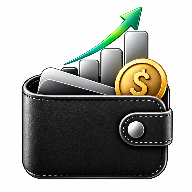
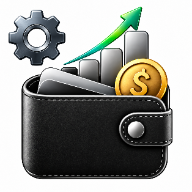
Release V8.7: localized control identity and resilient service diagnostics

diff --git a/admin-command.js b/admin-command.js
@@ -22,7 +22,7 @@
       if (!row || !idPattern.test(row.id || '')) return;
       const key = kind + ':' + row.id;
       if (seen.has(key)) return;
-      seen.add(key); queue.push({kind, id: row.id, label: String(label || row.id), at: row.created_at || row.updated_at || row.ends_at || null, priority, userId: row.requester_user_id || row.owner_user_id || row.user_id || null, source: row.source || null});
+      seen.add(key); queue.push({kind, id: row.id, label: String(label || row.id), at: (kind === 'account' ? row.ends_at : row.created_at || row.updated_at) || row.ends_at || null, priority, userId: row.requester_user_id || row.owner_user_id || row.user_id || null, source: row.source || null});
     }
     list(overview?.pending_requests).forEach(row => add('request', row, row.request_no, 1));
     if (table.tab === 'requests' && table.ready !== false) list(table.rows).filter(row => row.status === 'pending_review').forEach(row => add('request', row, row.request_no, 1));
@@ -48,17 +48,21 @@
     if (expires && (!Number.isFinite(expires.getTime()) || expires.getTime() <= Date.now())) throw Error('invalid_request');
     return {user_id: data.user_id, enabled: data.enabled === true, daily_limit: integer(data.daily_limit, 1, 100), expires_at: expires ? expires.toISOString() : null};
   }
+  const unavailableUntil = new Map();
   async function requestAI(bridge, action, data = {}, fetcher = root.fetch?.bind(root)) {
     if (!['admin_status', 'admin_config', 'admin_grant'].includes(action)) throw Error('invalid_request');
     const pin = await bridge.session();
     if (!bridge.current(pin)) throw Error('session_revoked');
-    const connection = bridge.connection(), controller = new AbortController(), timer = setTimeout(() => controller.abort(), 20000);
+    const connection = bridge.connection(), endpoint = connection.url.replace(/\/$/, '') + '/functions/v1/masarifi-ai';
+    if ((unavailableUntil.get(endpoint) || 0) > Date.now()) throw Error('setup_required');
+    const controller = new AbortController(), timer = setTimeout(() => controller.abort(), 20000);
     try {
       const response = await fetcher(connection.url.replace(/\/$/, '') + '/functions/v1/masarifi-ai', {method: 'POST', signal: controller.signal, headers: {'Content-Type': 'application/json', apikey: connection.key, Authorization: 'Bearer ' + pin.token}, body: JSON.stringify({action, ...(action === 'admin_status' ? {} : {data})})});
       if (!bridge.current(pin)) throw Error('session_revoked');
       let result; try { result = await response.json(); } catch { result = null; }
       if (!bridge.current(pin)) throw Error('session_revoked');
-      if (response.status === 404) throw Error('setup_required');
+      if (response.status === 404 || response.status === 410) { unavailableUntil.set(endpoint, Date.now() + 300000); throw Error('setup_required'); }
+      if (response.ok) unavailableUntil.delete(endpoint);
       if (!response.ok || !result?.ok) {
         const code = response.status === 401 ? 'auth_required' : result?.code || (response.status === 403 ? 'admin_forbidden' : 'backend_unavailable');
         if (['admin_forbidden', 'auth_required', 'session_revoked'].includes(code)) bridge.revoke(pin, code);
@@ -72,6 +76,7 @@
   const text = {
     origin_forbidden:['هذا العنوان غير مسموح لخدمة الذكاء الاصطناعي؛ راجع إعدادات الخادم.','This site origin is not allowed by the AI service. Check the server configuration.','Bu site adresine yapay zekâ hizmetinde izin verilmemiş. Sunucu ayarlarını kontrol edin.','Cette origine n’est pas autorisée par le service IA. Vérifiez le serveur.'], unsaved:['توجد تغييرات غير محفوظة. هل تريد تجاهلها؟','There are unsaved changes. Discard them?','Kaydedilmemiş değişiklikler var. Silinsin mi?','Des modifications ne sont pas enregistrées. Les abandonner ?'], operations:['مركز العمليات','Operations center','İşlem merkezi','Centre des opérations'], overview:['المتابعة','Follow-up','Takip','Suivi'], export:['تصدير الجدول','Export table','Tabloyu dışa aktar','Exporter le tableau'], ai:['الذكاء الاصطناعي','AI administration','Yapay zekâ yönetimi','Administration IA'], close:['إغلاق','Close','Kapat','Fermer'], refresh:['تحديث البيانات','Refresh data','Verileri yenile','Actualiser'], search:['بحث سريع عن حساب','Quick account search','Hızlı hesap arama','Recherche rapide de compte'], searchHint:['الاسم أو كود البرنامج أو معرّف الحساب','Name, program code or account ID','Ad, program kodu veya hesap kimliği','Nom, code ou identifiant du compte'], searchButton:['فتح نتائج البحث','Open search results','Sonuçları aç','Ouvrir les résultats'], pending:['طلبات التفعيل','Activation requests','Etkinleştirme talepleri','Demandes d’activation'], threads:['محادثات تحتاج متابعة','Threads awaiting follow-up','Takip bekleyen sohbetler','Conversations à suivre'], expiring:['تنتهي خلال 7 أيام','Expiring in 7 days','7 gün içinde sona eriyor','Expirent dans 7 jours'], revoked:['أجهزة مفصولة','Revoked devices','Bağlantısı kesilen cihazlar','Appareils révoqués'], server:['إجمالي الخادم','Server total','Sunucu toplamı','Total serveur'], loaded:['العناصر المحمّلة','Loaded items','Yüklenen öğeler','Éléments chargés'], page:['هذه الصفحة فقط','This page only','Yalnızca bu sayfa','Cette page uniquement'], unknown:['لم يُحمّل المصدر','Source not loaded','Kaynak yüklenmedi','Source non chargée'], queued:['قائمة المتابعة','Follow-up queue','Takip listesi','File de suivi'], empty:['لا توجد عناصر متابعة في المصادر المحمّلة.','No follow-up items in loaded sources.','Yüklenen kaynaklarda takip öğesi yok.','Aucun élément à suivre dans les sources chargées.'], scope:['تُعرض القراءات المتاحة فقط؛ هذه القائمة ليست حصرًا لكل الحسابات.','Only available readings are shown; this is not an inventory of all accounts.','Yalnızca mevcut ölçümler gösterilir; tüm hesapların envanteri değildir.','Seules les données disponibles sont affichées, pas tous les comptes.'], request:['طلب تفعيل','Activation request','Etkinleştirme talebi','Demande d’activation'], thread:['محادثة خاصة','Private thread','Özel sohbet','Conversation privée'], notice:['إشعار','Notification','Bildirim','Notification'], account:['اشتراك قريب من النهاية','Subscription nearing expiry','Süresi dolmak üzere abonelik','Abonnement bientôt expiré'], online:['اتصال متاح','Network available','Ağ kullanılabilir','Réseau disponible'], offline:['دون اتصال','Offline','Çevrimdışı','Hors ligne'], requests:['طلبات قيد التنفيذ','Requests in flight','Devam eden istekler','Requêtes en cours'], last:['آخر استجابة ناجحة','Last successful response','Son başarılı yanıt','Dernière réponse réussie'], latency:['زمن آخر طلب','Last request latency','Son istek süresi','Latence de la dernière requête'], support:['دعم بموافقة محددة','Support with explicit consent','Açık izinli destek','Assistance avec consentement'], notifications:['فتح الإشعارات','Open notifications','Bildirimleri aç','Ouvrir les notifications'], choose:['تحديد الصف','Select row','Satırı seç','Sélectionner la ligne'], all:['تحديد الصفحة','Select page','Sayfayı seç','Sélectionner la page'], selected:['صفوف مختارة','Selected rows','Seçili satırlar','Lignes sélectionnées'], download:['تنزيل CSV','Download CSV','CSV indir','Télécharger CSV'], exportHint:['يشمل التصدير الصفوف المحمّلة والأعمدة المعروضة فقط. تُحمى الخلايا النصية من صيغ الجداول.','Exports include loaded rows and visible columns only. Text cells are protected from spreadsheet formulas.','Yalnızca yüklenen satırlar ve görünen sütunlar aktarılır. Metin hücreleri formüllere karşı korunur.','L’export comprend uniquement les lignes chargées et colonnes affichées. Les cellules sont protégées contre les formules.'], noTable:['افتح جدول الطلبات أو الأجهزة أو الاشتراكات أولًا، ثم حدد الصفوف المطلوبة.','Open requests, devices or subscriptions first, then select rows.','Önce talepler, cihazlar veya abonelikler tablosunu açın ve satır seçin.','Ouvrez un tableau puis sélectionnez les lignes.'], aiHint:['الحدود والوصول تُفرض في الخادم. لا يُحفظ مفتاح المزوّد في المتصفح.','Limits and access are enforced by the server. Provider keys are never stored in the browser.','Sınırlar ve erişim sunucuda uygulanır. Sağlayıcı anahtarı tarayıcıda saklanmaz.','Les limites et accès sont appliqués au serveur. Les clés ne sont jamais stockées dans le navigateur.'], loading:['جار التحميل…','Loading…','Yükleniyor…','Chargement…'], setup_required:['يلزم نشر وظيفة الذكاء الاصطناعي وتهيئة قاعدة البيانات أولًا.','Deploy the AI function and database setup first.','Önce yapay zekâ işlevini ve veritabanı kurulumunu dağıtın.','Déployez d’abord la fonction IA et la base de données.'], service_not_configured:['خدمة الذكاء الاصطناعي غير مهيأة على الخادم.','AI service is not configured on the server.','Yapay zekâ hizmeti sunucuda yapılandırılmadı.','Le service IA n’est pas configuré au serveur.'], backend_unavailable:['تعذر الوصول إلى الخدمة. أعد المحاولة.','Service unavailable. Try again.','Hizmete erişilemiyor. Yeniden deneyin.','Service indisponible. Réessayez.'], network_timeout:['انتهت مهلة الاتصال؛ تحقق من الحالة قبل إعادة الحفظ.','Connection timed out; check status before saving again.','Bağlantı zaman aşımı; yeniden kaydetmeden durumu kontrol edin.','Délai dépassé : vérifiez l’état avant de réenregistrer.'], invalid_request:['تحقق من المعرّف والتاريخ والحدود الصحيحة.','Check the account ID, date and valid integer limits.','Kimliği, tarihi ve geçerli tam sayı sınırlarını kontrol edin.','Vérifiez l’identifiant, la date et les limites entières.'], session_revoked:['انتهت صلاحية جلسة الإدارة.','Admin session is no longer valid.','Yönetici oturumu artık geçerli değil.','La session administrateur n’est plus valide.'], blocked:['أكمل الإرسال أو أغلق نافذة التعديل أولًا.','Finish sending or close the editor first.','Önce gönderimi bitirin veya düzenleyiciyi kapatın.','Terminez l’envoi ou fermez l’éditeur.'], enabled:['تفعيل خدمة الذكاء الاصطناعي','Enable AI service','Yapay zekâ hizmetini etkinleştir','Activer le service IA'], projectLimit:['حد الطلبات اليومي للمشروع','Project daily request limit','Proje günlük istek sınırı','Limite quotidienne du projet'], userLimit:['الحد اليومي الافتراضي للمستخدم','Default daily user limit','Varsayılan günlük kullanıcı sınırı','Limite utilisateur par défaut'], tokens:['حد رموز الإجابة','Maximum output tokens','Yanıt belirteci sınırı','Limite de jetons de réponse'], save:['مراجعة وحفظ','Review and save','İncele ve kaydet','Vérifier et enregistrer'], review:['مراجعة التغيير','Review change','Değişikliği incele','Vérifier le changement'], confirm:['أؤكد اعتماد هذا التغيير','Confirm this change','Bu değişikliği onaylıyorum','Je confirme cette modification'], saved:['حُفظت الإعدادات على الخادم','Saved on the server','Sunucuya kaydedildi','Enregistré au serveur'], grant:['وصول مستخدم للذكاء الاصطناعي','User AI entitlement','Kullanıcı yapay zekâ erişimi','Accès IA utilisateur'], userId:['معرّف المستخدم','User ID','Kullanıcı kimliği','Identifiant utilisateur'], allow:['السماح بالاستخدام','Allow usage','Kullanıma izin ver','Autoriser l’utilisation'], expires:['تاريخ انتهاء اختياري','Optional expiry date','İsteğe bağlı bitiş tarihi','Expiration facultative'], grantLimit:['حد المستخدم اليومي','User daily limit','Kullanıcı günlük sınırı','Limite quotidienne utilisateur'], entitlements:['أحدث صلاحيات المستخدمين (حتى 100)','Latest user entitlements (up to 100)','Son kullanıcı izinleri (en fazla 100)','Derniers accès utilisateurs (100 maximum)'], model:['النموذج المحدد في الخادم','Server-configured model','Sunucuda ayarlanan model','Modèle défini au serveur'], today:['طلبات اليوم','Requests today','Bugünkü istekler','Requêtes du jour'], remaining:['الطلبات المتبقية للمشروع','Remaining project requests','Kalan proje istekleri','Requêtes restantes du projet'], tokenUsage:['رموز الإدخال والإجابة اليوم','Input and output tokens today','Bugünkü girdi ve çıktı belirteçleri','Jetons d’entrée et sortie du jour'], provider:['إعداد المزوّد','Provider setup','Sağlayıcı kurulumu','Configuration du fournisseur'], yes:['مهيأ','Configured','Yapılandırıldı','Configuré'], no:['غير مهيأ','Not configured','Yapılandırılmadı','Non configuré']
   };
+  text.setup_required = ['خدمة المساعد السحابي غير منشورة أو غير متاحة. تبقى بقية أدوات التحكم متاحة. يمكن إعادة التحقق بعد خمس دقائق.','The cloud assistant service is not deployed or unavailable. Other admin tools remain available. Check again in five minutes.','Bulut asistanı hizmeti dağıtılmamış veya kullanılamıyor. Diğer yönetim araçları kullanılabilir. Beş dakika sonra yeniden kontrol edin.','Le service d’assistant cloud n’est pas déployé ou est indisponible. Les autres outils restent disponibles. Vérifiez à nouveau dans cinq minutes.'];
   const locale = () => root.MasarifiAdminLocale?.locale || 'ar';
   const t = key => text[key]?.[{ar:0,en:1,tr:2,fr:3}[locale()] ?? 0] || key;
   const errorText = error => t(Object.prototype.hasOwnProperty.call(text,error?.message)?error.message:'backend_unavailable');

diff --git a/app-locale.js b/app-locale.js
@@ -3,9 +3,9 @@
 'use strict';
 if(root.MasarifiLocale)return;
 const application='admin',supported=Object.freeze(['ar','tr','en','fr']);
-const names={user:{ar:'مصاريفي',tr:'Masarifi — Giderlerim',en:'Masarifi — My Expenses',fr:'Masarifi — Mes dépenses'},admin:{ar:'مصاريفي — الإدارة',tr:'Masarifi — Yönetim',en:'Masarifi — Administration',fr:'Masarifi — Administration'}};
-const shortNames={user:{ar:'مصاريفي',tr:'Giderlerim',en:'My Expenses',fr:'Mes dépenses'},admin:{ar:'إدارة مصاريفي',tr:'Masarifi Yönetim',en:'Masarifi Admin',fr:'Masarifi Admin'}};
-const shareTexts={user:{ar:'مصاريفي — نظّم مصاريفك وصناديقك وتقاريرك من جهازك.',tr:'Masarifi — giderlerinizi, kasalarınızı ve raporlarınızı cihazınızdan yönetin.',en:'Masarifi — manage your expenses, cashboxes and reports from your device.',fr:'Masarifi — gérez vos dépenses, vos caisses et vos rapports depuis votre appareil.'},admin:{ar:'إدارة مصاريفي — إدارة الحسابات والاشتراكات وخدمة المستخدمين.',tr:'Masarifi Yönetim — hesapları, abonelikleri ve kullanıcı desteğini yönetin.',en:'Masarifi Administration — manage accounts, subscriptions and user support.',fr:'Administration de Masarifi — gérez les comptes, les abonnements et l’assistance.'}};
+const names={user:{ar:'مصاريفي',tr:'Masarifi — Giderlerim',en:'Masarifi — My Expenses',fr:'Masarifi — Mes dépenses'},admin:{ar:'تحكم مصاريفي',tr:'Masarifi — Kontrol',en:'Masarifi — Control',fr:'Masarifi — Contrôle'}};
+const shortNames={user:{ar:'مصاريفي',tr:'Giderlerim',en:'My Expenses',fr:'Mes dépenses'},admin:{ar:'تحكم مصاريفي',tr:'Masarifi Kontrol',en:'Masarifi Control',fr:'Contrôle Masarifi'}};
+const shareTexts={user:{ar:'مصاريفي — نظّم مصاريفك وصناديقك وتقاريرك من جهازك.',tr:'Masarifi — giderlerinizi, kasalarınızı ve raporlarınızı cihazınızdan yönetin.',en:'Masarifi — manage your expenses, cashboxes and reports from your device.',fr:'Masarifi — gérez vos dépenses, vos caisses et vos rapports depuis votre appareil.'},admin:{ar:'تحكم مصاريفي — إدارة الحسابات والاشتراكات وخدمة المستخدمين.',tr:'Masarifi Kontrol — hesapları, abonelikleri ve kullanıcı desteğini yönetin.',en:'Masarifi Control — manage accounts, subscriptions and user support.',fr:'Administration de Masarifi — gérez les comptes, les abonnements et l’assistance.'}};
 const preferenceKey=application==='admin'?'masarifi.admin.locale.v1':'masarifi.user.locale.v85';
 const manifestDirectory=new URL('./',new URL(root.document.querySelector('link[rel="manifest"]')?.getAttribute('href')||'./manifest.webmanifest',root.location.href));
 function normalize(value){const lang=String(value||'').trim().toLowerCase().split(/[-_]/)[0];return supported.includes(lang)?lang:null;}
@@ -13,24 +13,24 @@ function phoneLanguage(languages=root.navigator?.languages,language=root.navigat
 function readPreference(){try{return normalize(root.localStorage.getItem(preferenceKey));}catch{return null;}}
 function writePreference(value){try{root.localStorage.setItem(preferenceKey,value);}catch{}}
 function linkLanguage(){try{return normalize(new URL(root.location.href).searchParams.get('lang'));}catch{return null;}}
-const initial=readPreference()||linkLanguage()||phoneLanguage();
+const initial=readPreference()||phoneLanguage();
 function meta(name,content){let node=root.document.querySelector(`meta[name="${name}"]`);if(!node){node=root.document.createElement('meta');node.setAttribute('name',name);root.document.head.append(node);}node.setAttribute('content',content);}
 function updateMetadata(value){
  const lang=normalize(value)||phoneLanguage(),document=root.document;
  document.documentElement.lang=lang;document.documentElement.dir=lang==='ar'?'rtl':'ltr';document.title=names[application][lang];
  const manifest=document.querySelector('link[rel="manifest"]');if(manifest)manifest.setAttribute('href',new URL('manifest.'+lang+'.webmanifest',manifestDirectory).href);
  meta('application-name',names[application][lang]);meta('apple-mobile-web-app-title',shortNames[application][lang]);
- meta('theme-color',document.documentElement.dataset.theme==='dark'?'#101112':'#f3f7f6');
+ meta('theme-color',document.documentElement.dataset.theme==='dark'?'#17212f':'#f3f7f6');
  return lang;
 }
-function publicURL(value){const lang=normalize(value)||phoneLanguage(),entry=application==='admin'&&/\/admin\.html$/i.test(root.location.pathname)?'./admin.html':'./',url=new URL(entry,root.location.href);if(!['https:','http:'].includes(url.protocol))throw Error('v20AppLinkUnavailable');url.username='';url.password='';url.search='';url.hash='';url.searchParams.set('lang',lang);return url.href;}
+function publicURL(value){const lang=normalize(value)||phoneLanguage(),entry=application==='admin'&&/\/admin\.html$/i.test(root.location.pathname)?'./admin.html':'./',url=new URL(entry,root.location.href);if(!['https:','http:'].includes(url.protocol))throw Error('v20AppLinkUnavailable');url.username='';url.password='';url.search='';url.hash='';return url.href;}
 function shareData(value){const lang=normalize(value)||phoneLanguage();return{title:names[application][lang],text:shareTexts[application][lang],url:publicURL(lang)};}
 function attachUser(app,v6=root.V6){
  if(!app||app.__v85Locale)return;Object.defineProperty(app,'__v85Locale',{value:true});
  // V6 already owns system/manual preference normalization. Keep saved IndexedDB
  // choices authoritative; a URL language seeds only defaults before App.init.
  if(v6)v6.resolveLanguage=phoneLanguage;
- const linked=linkLanguage();if(!app.ready&&linked){app.prefs.languageMode=linked;app.prefs.language=linked;app.prefs.reportLanguage=linked;}
+ // Shared URLs never create a manual preference on the recipient device.
  const applyTheme=app.applyTheme;app.applyTheme=function(){const result=applyTheme.apply(this,arguments);const lang=updateMetadata(this.prefs.language);if(this.ready)writePreference(lang);return result;};
  updateMetadata(app.prefs.language);
 }

diff --git a/sw.js b/sw.js
@@ -1,9 +1,9 @@
 importScripts('./badge-worker.js');
 /* Cache only the static admin shell. API responses and private records never enter this cache. */
-const RUNTIME_VERSION='8.6.0';
-const ADMIN_CACHE_PREFIX='masarifi-admin-runtime:'+self.registration.scope+':',ADMIN_CACHE=ADMIN_CACHE_PREFIX+RUNTIME_VERSION+'-97b13e3c9e91';
+const RUNTIME_VERSION='8.7.0';
+const ADMIN_CACHE_PREFIX='masarifi-admin-runtime:'+self.registration.scope+':',ADMIN_CACHE=ADMIN_CACHE_PREFIX+RUNTIME_VERSION+'-f3185b7d3322';
 const ADMIN_STATIC_ENABLED=!new URL(self.location.href).pathname.endsWith('/admin/push-sw.js');
-const ADMIN_FILES=["./","./index.html","./manifest.webmanifest","./icon-192.png","./icon-512.png","./admin-icon.svg","./notification-badge.png","./app-experience.js","./app-experience.css","./badge-worker.js","./notification-preferences.js","./notification-preferences.css","./app.css","./vendors.js","./admin-command.js","./admin-command.css","./interaction-shell.js","./interaction-shell.css","./user-usage.js","./user-usage.css","./app-locale.js","./manifest.ar.webmanifest","./manifest.tr.webmanifest","./manifest.en.webmanifest","./manifest.fr.webmanifest","./theme-polish.css"];
+const ADMIN_FILES=["./","./index.html","./manifest.webmanifest","./icon-192.png","./icon-512.png","./admin-icon.svg","./notification-badge.png","./app-experience.js","./app-experience.css","./badge-worker.js","./notification-preferences.js","./notification-preferences.css","./app.css","./vendors.js","./admin-command.js","./admin-command.css","./interaction-shell.js","./interaction-shell.css","./user-usage.js","./user-usage.css","./app-locale.js","./manifest.ar.webmanifest","./manifest.tr.webmanifest","./manifest.en.webmanifest","./manifest.fr.webmanifest","./theme-polish.css","./release.json"];
 self.addEventListener('install',event=>{if(ADMIN_STATIC_ENABLED)event.waitUntil(caches.open(ADMIN_CACHE).then(cache=>cache.addAll(ADMIN_FILES.map(file=>new Request(new URL(file,self.registration.scope),{cache:'reload'})))));});
 self.addEventListener('activate',event=>event.waitUntil((async()=>{if(ADMIN_STATIC_ENABLED)for(const key of await caches.keys())if(key.startsWith(ADMIN_CACHE_PREFIX)&&key!==ADMIN_CACHE)await caches.delete(key);await self.clients.claim();})()));
 self.addEventListener('fetch',event=>{if(!ADMIN_STATIC_ENABLED||event.request.method!=='GET')return;const url=new URL(event.request.url),scope=new URL(self.registration.scope);if(url.origin!==scope.origin||!url.pathname.startsWith(scope.pathname))return;const relative='./'+url.pathname.slice(scope.pathname.length);if(!ADMIN_FILES.includes(relative))return;event.respondWith((async()=>{const cache=await caches.open(ADMIN_CACHE),hit=await cache.match(event.request,{ignoreSearch:true});return hit||fetch(event.request);})());});

diff --git a/index.html b/index.html
@@ -1,9 +1,9 @@
-<!doctype html><html lang="ar" dir="rtl"><head><meta charset="utf-8"><meta name="viewport" content="width=device-width,initial-scale=1,viewport-fit=cover,interactive-widget=resizes-content"><meta name="robots" content="noindex,nofollow"><title>Masarifi — الإدارة</title><link rel="manifest" href="manifest.webmanifest"><script src="./app-locale.js"></script><link rel="icon" href="admin-icon.svg"><link rel="stylesheet" href="./app.css"><link rel="stylesheet" href="./app-experience.css"><link rel="stylesheet" href="./notification-preferences.css">
+<!doctype html><html lang="ar" dir="rtl"><head><meta charset="utf-8"><meta name="viewport" content="width=device-width,initial-scale=1,viewport-fit=cover,interactive-widget=resizes-content"><meta name="robots" content="noindex,nofollow"><title>تحكم مصاريفي</title><link rel="manifest" href="manifest.webmanifest"><script src="./app-locale.js"></script><link rel="icon" href="icon-192.png"><link rel="stylesheet" href="./app.css"><link rel="stylesheet" href="./app-experience.css"><link rel="stylesheet" href="./notification-preferences.css">
 <link rel="stylesheet" href="./admin-command.css">
 <link rel="stylesheet" href="./interaction-shell.css">
 <link rel="stylesheet" href="./user-usage.css">
 <link rel="stylesheet" href="./theme-polish.css">
-</head><body data-app="admin" data-version="8.6.0"><div id="adminRoot"></div><dialog id="adminDialog"></dialog><script src="./vendors.js"></script><script src="./user-usage.js"></script><script>/* Generated by tools/configure_supabase.py. Public client config only. */
+</head><body data-app="admin" data-version="8.7.0"><div id="adminRoot"></div><dialog id="adminDialog"></dialog><script src="./vendors.js"></script><script src="./user-usage.js"></script><script>/* Generated by tools/configure_supabase.py. Public client config only. */
 window.MASARIFI_SUPABASE_AUTO = Object.freeze({
   automatic: false,
   realtime: true,

diff --git a/theme-polish.css b/theme-polish.css
@@ -96,3 +96,5 @@
 :root[data-theme="dark"] .connection-detail.warning {
   color: #edbd7f;
 }
+
+html[data-theme="dark"]{--bg:#17212f;--panel:#253449;--panel2:#2d3e54;--text:#f1f5fb;--muted:#bdcadb;--line:#43556c;--accent:#8aaef0;--accent-soft:#334a6a;--income:#b4c9f3}
